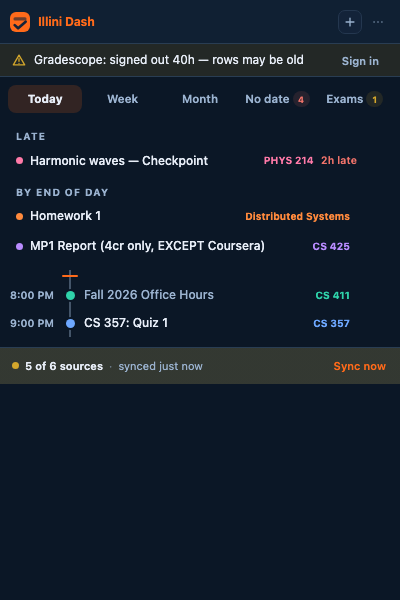
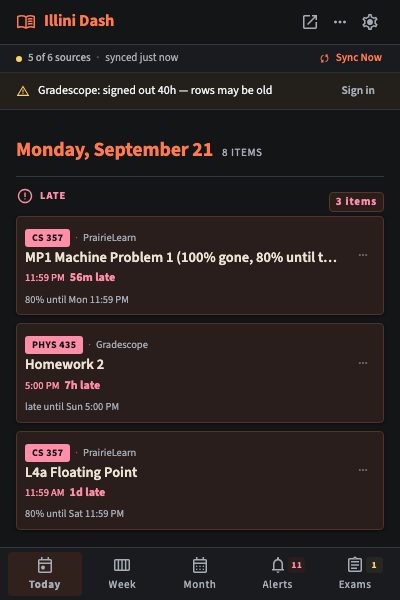
The preview day carries the row Sushi was looking at
A harness that cannot show a case cannot verify it. The fixture had unfinished
late-window rows but none whose window ended tonight, so nothing in it landed
in the band this change is about — and none carried a credit *ladder*, which is
the shape that made his row print no percentage at all: §4.3 records
`creditRemaining` only on the no-popover path, and writes the whole schedule as
JSON on the path his MP came down. A fixture with the number stored the easy way
would have drawn "80% until" before the fix as well.

Verified in `preview-popup.html` at 400x600, dark, which is the mode his machine
is in: the row is under LATE (3 items, 8 in the folio, each drawn once), reads
"11:59 PM · 56m late" with "80% until Mon 11:59 PM" under it, and carries
`row-overdue` rather than `row-late` — measured, `border-left-color` is the
course line rather than `--warn`'s rgb(255, 209, 102), which is what the same
row shows if the class is put back by hand. No errors in the page's console.

diff --git a/scripts/preview-data.ts b/scripts/preview-data.ts
@@ -127,6 +127,21 @@ const items = [
   item({ courseLabel: "CS357", title: "L4a Floating Point (scored, 80% tail)",
          dueAt: at(-3, 23, 59), lateDueAt: at(10, 23, 59), status: "graded",
          members: [member("prairielearn", { creditRemaining: "80" }, "graded")] }),
+  // **Sushi's own row, 2026-09-21**: a PrairieLearn MP whose 100% deadline went
+  // yesterday and whose 80% tier runs until tonight. It was drawn under "By end
+  // of day" in amber reading "late until Sun 11:59 PM", and it belongs under
+  // Late saying what it is still worth. The credit comes from the *ladder*
+  // rather than from `creditRemaining`, because that is the path a row with a
+  // credit popover takes and it is why his row printed no percentage at all —
+  // a fixture carrying the number the easy way could not reproduce it.
+  item({ courseLabel: "CS357", title: "MP1 Machine Problem 1 (100% gone, 80% until tonight)",
+         dueAt: at(-1, 23, 59), lateDueAt: at(0, 23, 59),
+         members: [member("prairielearn", {
+           creditSchedule: JSON.stringify([
+             { credit: 100, start: at(-8, 0, 1), end: at(-1, 23, 59) },
+             { credit: 80, start: at(-1, 23, 59), end: at(0, 23, 59) },
+           ]),
+         })] }),
   // Shapes his account does not currently have, kept so the layout is still
   // exercised against them: a still-open late window, a reduced-credit ladder,
   // an 8 AM smartPhysics checkpoint, a practice quiz, a moved deadline, and a
